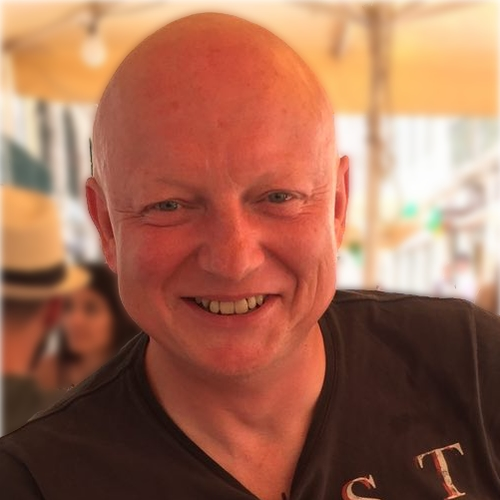
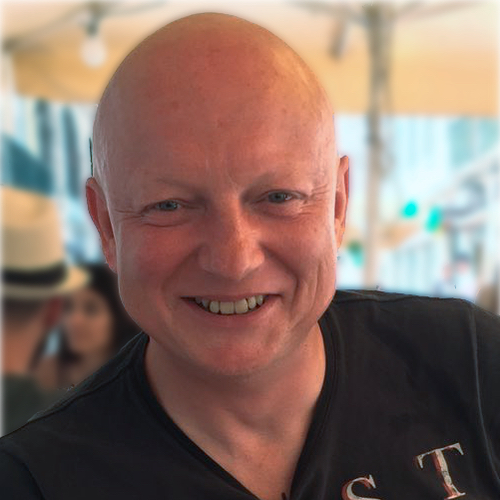
fix: read next/image document on attrs

diff --git a/src/components/Intro.tsx b/src/components/Intro.tsx
@@ -14,10 +14,11 @@ const Intro = () => {
             <Image
               src={cliffImg}
               alt="Image of Cliff"
-              width="192"
-              height="192"
-              quality="95"
-              priority={true}
+              priority
+              style={{
+                width: "192px",
+                height: "auto",
+              }}
               className="h-24 w-24 rounded-full border-[0.35rem] border-white object-cover shadow-xl sepia-[0.2]"
             />
           </div>
